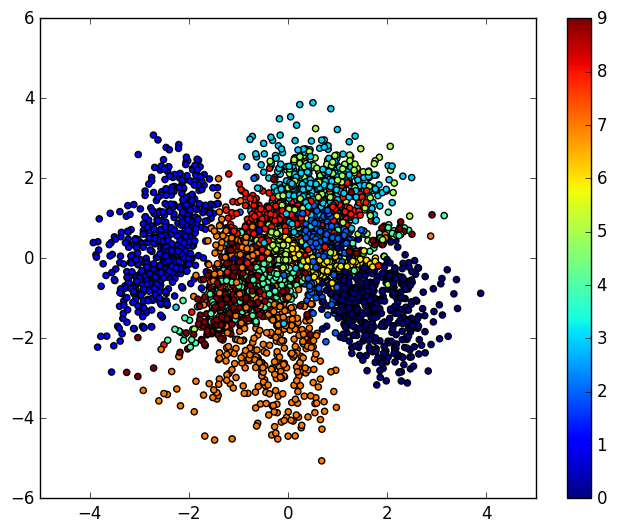
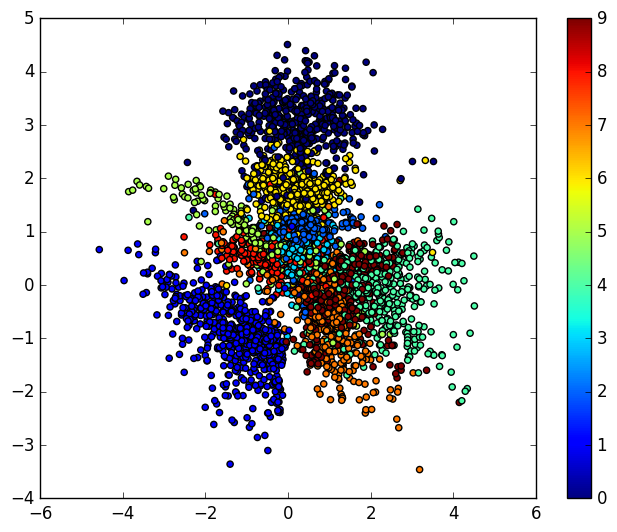
two layer

diff --git a/AVAE.py b/AVAE.py
@@ -68,7 +68,7 @@ class AVAE(object):
             self.params = [self.Wg_zh, self.bg_zh, self.Wg_hy, self.bg_hy]
         
         def generate(self, z):
-            h = T.nnet.relu(T.dot(z, self.Wg_zh) + self.bg_zh)
+            h = T.nnet.relu(T.dot(z, self.Wg_zh) + self.bg_zh, 0.01)
             y = T.nnet.sigmoid(T.dot(h, self.Wg_hy) + self.bg_hy)
             return y
 
@@ -80,14 +80,17 @@ class AVAE(object):
             self.hidden_size = hidden_size
             self.Wd_xh = init_weights((self.in_size, self.hidden_size), prefix + "Wd_xh")
             self.bd_xh = init_bias(self.hidden_size, prefix + "bd_xh")
+            self.Wd_xh2 = init_weights((self.hidden_size, self.hidden_size), prefix + "Wd_xh2")
+            self.bd_xh2 = init_bias(self.hidden_size, prefix + "bd_xh2")
             self.Wd_hy = init_weights((self.hidden_size, self.out_size), prefix + "Wd_hy")
             self.bd_hy = init_bias(self.out_size, prefix + "bd_hy")
-            self.params = [self.Wd_xh, self.bd_xh,  self.Wd_hy, self.bd_hy]
+            self.params = [self.Wd_xh, self.bd_xh, self.Wd_xh2, self.bd_xh2, self.Wd_hy, self.bd_hy]
 
         def discriminate(self, x):
-            h0 = T.nnet.relu(T.dot(x, self.Wd_xh) + self.bd_xh)
+            h0 = T.nnet.relu(T.dot(x, self.Wd_xh) + self.bd_xh, 0.01)
+            h1 = T.nnet.relu(T.dot(h0, self.Wd_xh2) + self.bd_xh2, 0.01)
             #y = T.nnet.sigmoid(T.dot(h0, self.Wd_hy) + self.bd_hy)
-            y = T.dot(h0, self.Wd_hy) + self.bd_hy
+            y = T.dot(h1, self.Wd_hy) + self.bd_hy
             return y
 
     class DiscriminatorZ():
@@ -103,7 +106,7 @@ class AVAE(object):
             self.params = [self.Wd_xh, self.bd_xh,  self.Wd_hy, self.bd_hy]
 
         def discriminate(self, z):
-            h0 = T.nnet.relu(T.dot(z, self.Wd_xh) + self.bd_xh)
+            h0 = T.nnet.relu(T.dot(z, self.Wd_xh) + self.bd_xh, 0.01)
             #y = T.nnet.sigmoid(T.dot(h0, self.Wd_hy) + self.bd_hy)
             y = T.dot(h0, self.Wd_hy) + self.bd_hy
             return y
@@ -129,7 +132,7 @@ class AVAE(object):
         # decoder
         g = self.G.generate(self.Z)
         d2 = self.Dx.discriminate(g) # fake
-        d3 = self.Dx.discriminate(self.reconstruct) # real ?
+        d3 = self.Dx.discriminate(self.reconstruct) # 0.8 * fake ?
         d4 = self.Dx.discriminate(self.X) # real
 
         #loss_d = T.mean(-T.log(d0) - T.log(1 - d1) - T.log(d4) - T.log(1 - d2) - T.log(d3)) 

diff --git a/main_mnist.py b/main_mnist.py
@@ -15,6 +15,7 @@ drop_rate = 0.
 batch_size = 128
 hidden_size = 500
 latent_size = 2
+iter_d = 5
 # try: sgd, momentum, rmsprop, adagrad, adadelta, adam, nesterov_momentum
 optimizer = "rmsprop"
 
@@ -41,9 +42,9 @@ for i in xrange(100):
         Z = model.noiser(local_bath_size)
         
         loss_d = 0
-        for di in xrange(5):
+        for di in xrange(iter_d):
             loss_d += model.train_d(X, Z, lr)
-        loss_d = loss_d / 5
+        loss_d = loss_d / iter_d
         cost,  loss_g = model.train_g(X, Z, lr)
         
         error += cost
